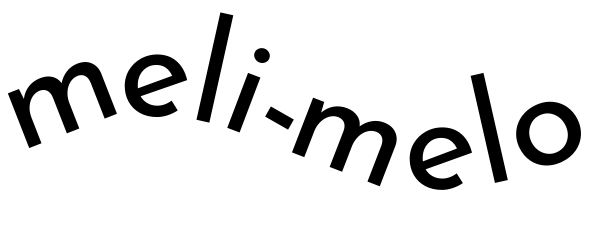
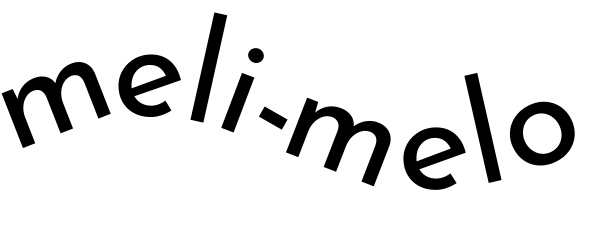
homepage

Changed region(s): [[0.0, 0.0297, 1.0, 0.8008], [0.731, 0.8008, 0.7614, 0.8305], [0.2437, 0.2076, 0.2741, 0.2373]]

diff --git a/src/Components/Home/HomePage.jsx b/src/Components/Home/HomePage.jsx
@@ -1,41 +1,88 @@
-
 import RandomText from "../PostFunctions/RandomText";
-import NavBar from "./NavBar"
-import './Style.css'
-import Logo2 from "../../assets/meli.png"
-import { useState} from 'react';
-import Logo from "../../assets/2.png"
+import NavBar from "./NavBar";
+import "./Style.css";
+import Logo2 from "../../assets/meli.png";
+import { useState, useEffect } from "react";
+import Logo from "../../assets/2.png";
 import { Link } from "react-router-dom";
 
-
 function HomePage() {
-  const [hover, setHover] = useState(false);
-  const handleHover = () => {
-    setHover(!hover);
+  const [clicked, setClicked] = useState(false);
+  const handleClick = () => {
+    setClicked(!clicked);
   };
 
   const logoStyle = {
-    marginBottom:"50px",
+    marginBottom: "50px",
     width: "350px",
     height: "120px",
-    backgroundImage: `url(${hover ? Logo2 : Logo})`,
-    backgroundSize: "cover",
     textDecoration: "none",
     border: "none !important",
     boxShadow: "none !important",
-    
+    display: "block",
+    position: "relative",
+    transition: "width 1s, height 1s, background-image 1s, transform 2s",
+    transform: `rotate(${clicked ? "2160deg" : "0"})`,
+    transformOrigin: "center",
   };
-  
+
+  const logo1Style = {
+    position: "absolute",
+    top: 0,
+    left: 0,
+    opacity: clicked ? 0 : 1,
+    width: "100%",
+    height: "100%",
+    backgroundImage: `url(${Logo})`,
+    backgroundSize: "cover",
+    transition: "opacity 1s ease-in-out 1s", // add transition property to fade out
+  };
+
+  const logo2Style = {
+    position: "absolute",
+    top: 0,
+    left: 0,
+    opacity: clicked ? 1 : 0,
+    width: "100%",
+    height: "100%",
+    backgroundImage: `url(${Logo2})`,
+    backgroundSize: "cover",
+    filter: clicked ? "none !important" : "blur(3px)!important",
+    transition: "opacity 1s ease-in-out 1s", // add transition property to fade in with delay
+  };
+
+  const [shuffle, setShuffle] = useState(false);
+
+  useEffect(() => {
+    // Start shuffle after the logo rotates
+    if (clicked) {
+      setTimeout(() => {
+        setShuffle(true); // start shuffle
+      }, 2000); // delay the shuffle start for 2 seconds to match the logo rotation transition
+    }
+  }, [clicked]);
+
+  useEffect(() => {
+    // Stop shuffle after the logo rotation is complete
+    if (shuffle && !clicked) {
+      setTimeout(() => {
+        setShuffle(false);
+      }, 2000);
+    }
+  }, [shuffle, clicked]);
+
   return (
-    <div class="relative">
-      <NavBar/>
-      <div class="flex flex-column align-items-center">
-      <Link href="" style={{ ...logoStyle, border: 'none !important' }}  onMouseEnter={handleHover} class="border-0 text-decoration-none object-fit-cover shadow-none" to="/" >
-        </Link>
-        <RandomText/>
+    <div className="relative">
+      <NavBar />
+      <div className="flex flex-column align-items-center">
+        <div style={logoStyle} onClick={handleClick}>
+          <div style={logo1Style}></div>
+          <div style={logo2Style}></div>
+        </div>
+        <RandomText shuffle={shuffle} />
       </div>
     </div>
-  )
+  );
 }
 
 export default HomePage;

diff --git a/src/Components/PostFunctions/RandomText.jsx b/src/Components/PostFunctions/RandomText.jsx
@@ -1,4 +1,4 @@
-import '../Home/Style.css'
+import '../Home/Style.css'; // corrected import statement
 import "./RandomText.css";
 import PostPopUp from '../Home/PostPopUp';
 import axios from "axios";
@@ -9,9 +9,25 @@ import Plane from "../../assets/plane.svg"
 
 import React,{useState, useEffect} from 'react';
 
-function RandomText() {
+function RandomText({ shuffle }) {
+  
   const [message, setMessage] = useState('');
   const [messages, setMessages] = useState([]);
+  const shuffleArray = (array) => {
+    const shuffledArray = [...array];
+    for (let i = shuffledArray.length - 1; i > 0; i--) {
+      const j = Math.floor(Math.random() * (i + 1));
+      [shuffledArray[i], shuffledArray[j]] = [shuffledArray[j], shuffledArray[i]];
+    }
+    setMessages(shuffledArray);
+  };
+  
+  
+  useEffect(() => {
+    if (shuffle) {
+      shuffleArray(messages); // changed shuffle to shuffleArray
+    }
+  }, [shuffle, messages]); // added messages as a dependency to prevent infinite loop
 
   useEffect(() => {
     getTexts();
@@ -36,7 +52,7 @@ function RandomText() {
         const id2 = uuidv4();
         return { id1, content1, font_family, id2, content2 };
       });
-      shuffle(newMessages);
+      shuffleArray(newMessages); // changed shuffle to shuffleArray
       setMessages(newMessages);
     } 
     catch (error) {
@@ -66,13 +82,8 @@ function RandomText() {
     setMessage('');
   };
 
+
   // Shuffle array using Fisher-Yates algorithm
-  const shuffle = (array) => {
-    for (let i = array.length - 1; i > 0; i--) {
-      const j = Math.floor(Math.random() * (i + 1));
-      [array[i], array[j]] = [array[j], array[i]];
-    }
-  };
   
   return (
   <div class="random">

diff --git a/public/index.html b/public/index.html
@@ -3,7 +3,10 @@
   <head>
     <meta charset="utf-8" />
     <link rel="icon" href="%PUBLIC_URL%/favicon.ico" />
-    <meta name="viewport" content="width=device-width, initial-scale=1" />
+    <link rel="preconnect" href="https://fonts.googleapis.com">
+<link rel="preconnect" href="https://fonts.gstatic.com" crossorigin>
+<link href="https://fonts.googleapis.com/css2?family=Chakra+Petch&family=Gloock&family=Italianno&family=Kaushan+Script&family=La+Belle+Aurore&family=Nanum+Pen+Script&family=Open+Sans&family=Righteous&family=Roboto&family=Roboto+Mono&family=VT323&display=swap" rel="stylesheet"> 
+<meta name="viewport" content="width=device-width, initial-scale=1" />
     <meta name="theme-color" content="#000000" />
     <meta
       name="description"
@@ -16,8 +19,6 @@
     <title>MELI MELO</title>
   </head>
   <body>
-    <noscript>You need to enable JavaScript to run this app.</noscript>
     <div id="root"></div>
-
   </body>
 </html>

diff --git a/src/Components/PostFunctions/RandomText.css b/src/Components/PostFunctions/RandomText.css
@@ -1,7 +1,7 @@
 .random-class-0{
  
   font-size: 30px !important;;
-  font-family: 'Smokum', cursive;
+  font-family: 'Italianno', 'Helvetica', cursive;
 }
 .random-class-1{
  
@@ -28,7 +28,7 @@
   }
   .random-class-5{
    
-    font-size: 30px !important;;
+    font-size: 38px !important;;
     font-family: 'Nanum Pen Script', cursive;
 
   }
@@ -50,6 +50,12 @@
     font-family: 'Roboto', sans-serif;
 
   }
+  .random-class-9{
+    font-size: 30px !important;
+    font-family: 'Roboto Mono', monospace;
+
+  }
+
   .random-class-9{
    
     font-size: 30px !important;

diff --git a/src/Components/Home/NavBar.jsx b/src/Components/Home/NavBar.jsx
@@ -4,8 +4,6 @@ import '../Home/Style.css'
 import axios from "axios"
 
 const NavBar = () => {
-   
-
   const req = async () => {
     try {
       await axios.get("/user/logout", {
@@ -19,6 +17,7 @@ const NavBar = () => {
     console.log(error);
     }
   }
+  
   return (
   <div class="containerNavBar" >
      <nav class="navbar  navbar-expand-lg navbar-light sticky container-xxl flex-wrap flex-lg-nowrap ">

diff --git a/src/Components/Login/Auth.jsx b/src/Components/Login/Auth.jsx
@@ -7,7 +7,8 @@ export const useAuth=() => {
 
 export const AuthProvider =({children}) => {
     const[user, setUser] = useState(null)
- const[register, setRegister] = useState(false)
+    const[register, setRegister] = useState(false)
+    
     const login = user =>{
       setUser (user)
     }

diff --git a/src/Components/Home/LeftBar.jsx b/src/Components/Home/LeftBar.jsx
@@ -1,6 +1,6 @@
 import React from 'react'
 import './Style.css'
-import RandomText from '../PostFunctions/RandomText'
+
 
 export default function LeftBar() {
   return (
